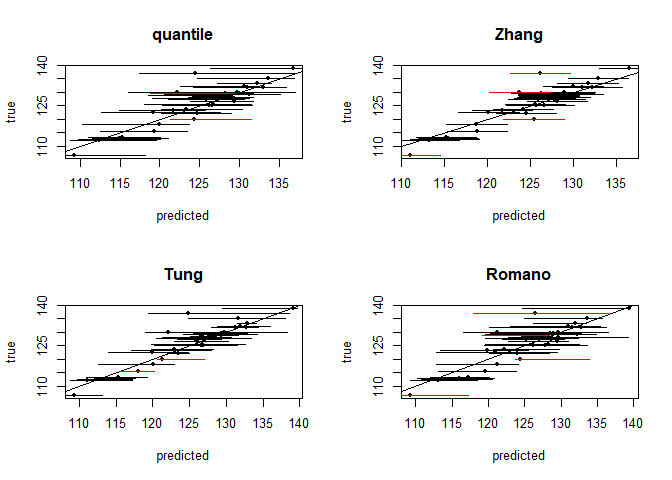
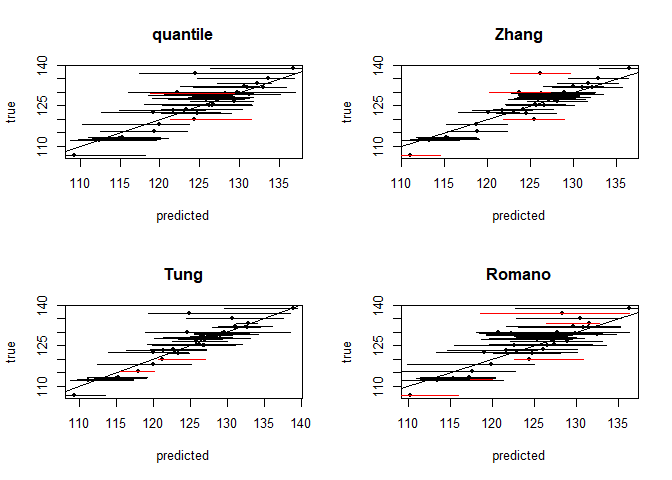
fixing branch

diff --git a/README.md b/README.md
@@ -91,11 +91,11 @@ Below are the coverage rates and average prediction interval lengths using the t
 coverage <- sapply(res$int, FUN = getCoverage, response = test$pressure)
 coverage
 #>  quantile     Zhang      Tung    Romano       Roy       HDI    Ghosal 
-#> 0.8947368 0.8947368 0.8947368 0.8421053 0.7894737 0.9210526 0.9736842
+#> 0.8947368 0.8947368 0.9210526 0.8684211 0.9210526 0.9210526 0.9736842
 length <- sapply(res$int, FUN = getPILength)
 length
 #>  quantile     Zhang      Tung    Romano       Roy       HDI    Ghosal 
-#> 10.233720  7.035656  7.627004  9.746129 22.071349 10.007263  9.001089
+#> 10.233720  7.035656  7.755349 10.620976 11.686105  9.937395  8.955002
 ```
 
 Below are plots of the resulting prediction intervals generated for each method.
